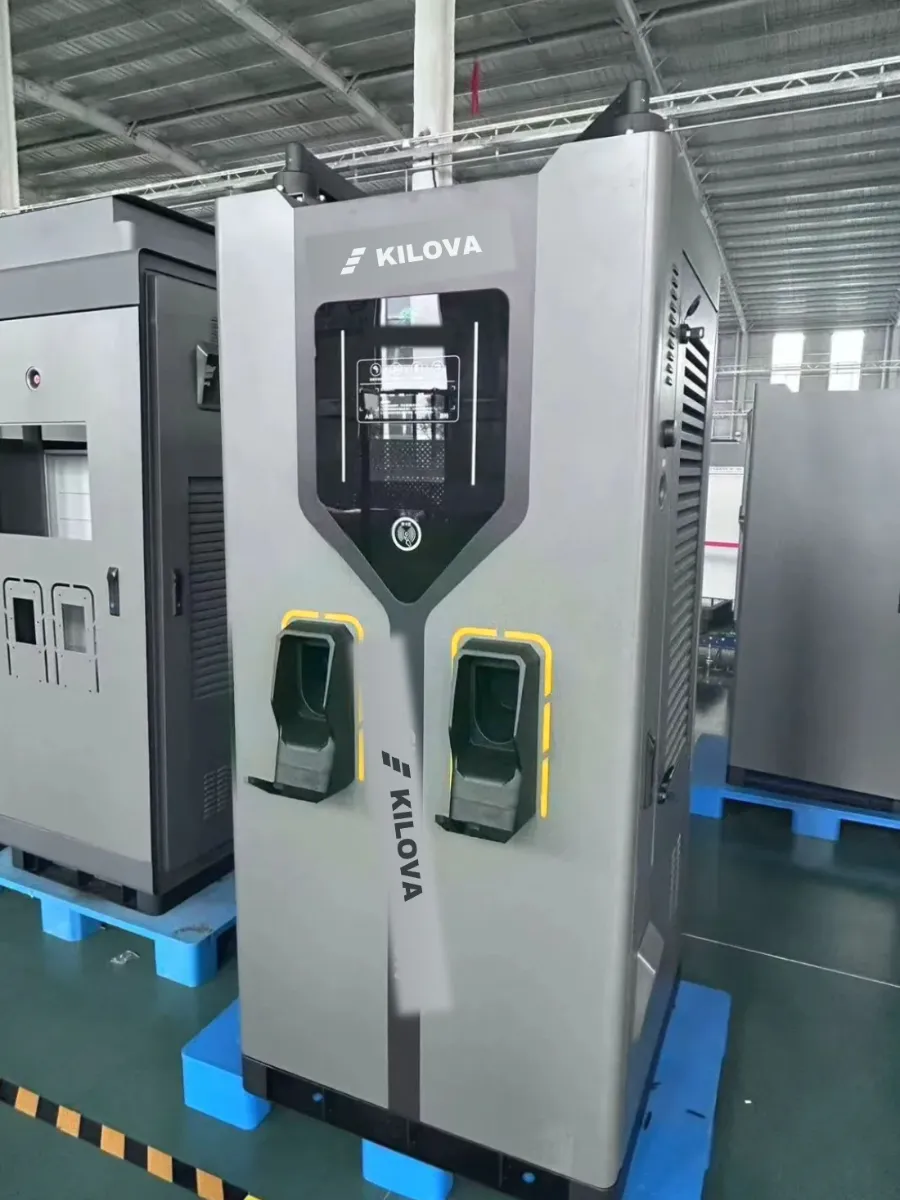
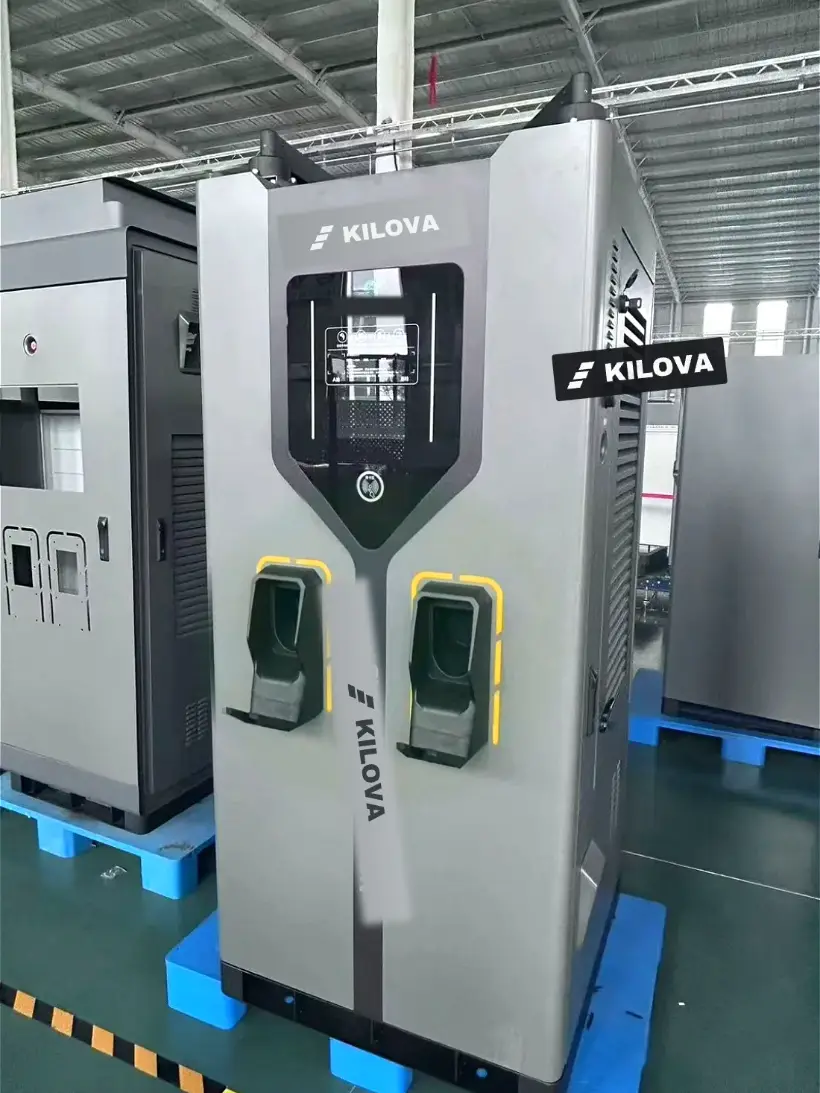
feat(kilova): uma foto por modelo e o adesivo da marca na frente do gabinete
Cada card da linha DC ganhou o retrato do seu equipamento, com o adesivo
KILOVA colado na frente. A unidade branca perdeu a marca do fornecedor:
painel grafite no topo, selo âmbar, instruções do nosso app e o logotipo
grande na porta. Foto de celular passou por nitidez e contraste.

diff --git a/dashboard/public/kilova/index.html b/dashboard/public/kilova/index.html
@@ -73,7 +73,7 @@ header.topo{position:sticky;top:0;z-index:40;background:rgb(255 255 255/.94);bac
 .numeros b{display:block;font-family:var(--serif);font-size:22px;color:var(--tinta)}
 .numeros span{font-size:11.5px;color:var(--suave)}
 .hero figure{margin:0;border-radius:12px;overflow:hidden;background:#EDEFF2}
-.hero figure img{width:100%;height:100%;object-fit:cover;aspect-ratio:1500/860}
+.hero figure img{width:100%;height:100%;object-fit:cover;aspect-ratio:3/2}
 .acoes{display:flex;gap:10px;margin-top:22px;flex-wrap:wrap}
 .acoes a{font-size:15px}
 
@@ -87,8 +87,10 @@ section{padding:44px 0 0}
 .vitrine{display:grid;gap:14px;grid-template-columns:repeat(auto-fill,minmax(228px,1fr))}
 .modelo{display:flex;flex-direction:column;overflow:hidden;transition:box-shadow .18s ease,transform .18s ease}
 .modelo:hover{box-shadow:0 8px 18px rgb(20 23 26/.09),0 2px 5px rgb(20 23 26/.06);transform:translateY(-2px)}
-.modelo .desenho{background:linear-gradient(180deg,#F7F8FA,#FFFFFF);padding:20px 16px 8px;display:flex;
-  align-items:flex-end;justify-content:center;min-height:186px}
+.modelo .desenho{background:#EDEFF2;overflow:hidden}
+.modelo .desenho img{width:100%;height:100%;object-fit:cover;aspect-ratio:4/5;display:block;
+  transition:transform .3s ease}
+.modelo:hover .desenho img{transform:scale(1.04)}
 .modelo .corpo{padding:14px 16px 18px;display:flex;flex-direction:column;gap:9px;flex:1}
 .modelo .nome{font-family:var(--serif);font-size:17px;color:var(--tinta)}
 .modelo .kw{font-family:var(--serif);font-size:30px;color:var(--tinta);line-height:1}
@@ -206,7 +208,7 @@ footer a{text-decoration:underline;text-underline-offset:3px}
     </div>
 
     <figure>
-      <img src="/kilova/img/hero.webp" width="1500" height="860" alt="Linha de carregadores KILOVA de corrente contínua na fábrica, prontos para embarque" fetchpriority="high">
+      <img src="/kilova/img/hero.webp" width="1400" height="933" alt="Linha de carregadores KILOVA de corrente contínua na fábrica, prontos para embarque" fetchpriority="high">
     </figure>
   </div>
 </div>
@@ -225,16 +227,7 @@ footer a{text-decoration:underline;text-underline-offset:3px}
   <div class="vitrine">
 
     <article class="cartao modelo">
-      <div class="desenho">
-        <svg viewBox="0 0 120 150" width="98" role="img" aria-label="Carregador KILOVA D60">
-          <rect x="22" y="10" width="76" height="132" rx="7" fill="#1B2026"></rect>
-          <rect x="30" y="22" width="44" height="34" rx="4" fill="#0A0C0E"></rect>
-          <rect x="84" y="22" width="6" height="86" rx="3" fill="#FFB800"></rect>
-          <rect x="30" y="66" width="26" height="30" rx="5" fill="#0A0C0E"></rect>
-          <g transform="translate(30,112) scale(0.19)"><use href="#s" fill="#FFB800"></use></g>
-          <rect x="14" y="142" width="92" height="6" rx="3" fill="#D5D9E0"></rect>
-        </svg>
-      </div>
+      <div class="desenho"><img src="/kilova/img/d60.webp" width="620" height="775" alt="Carregador KILOVA D60 de 60 kW" loading="lazy"></div>
       <div class="corpo">
         <span class="selo">Entrada de rede</span>
         <p class="nome">KILOVA D60</p>
@@ -250,17 +243,7 @@ footer a{text-decoration:underline;text-underline-offset:3px}
     </article>
 
     <article class="cartao modelo">
-      <div class="desenho">
-        <svg viewBox="0 0 120 150" width="102" role="img" aria-label="Carregador KILOVA D80">
-          <rect x="20" y="8" width="80" height="134" rx="7" fill="#1B2026"></rect>
-          <rect x="28" y="20" width="48" height="36" rx="4" fill="#0A0C0E"></rect>
-          <rect x="86" y="20" width="6" height="90" rx="3" fill="#FFB800"></rect>
-          <rect x="28" y="66" width="26" height="32" rx="5" fill="#0A0C0E"></rect>
-          <rect x="60" y="66" width="26" height="32" rx="5" fill="#0A0C0E"></rect>
-          <g transform="translate(28,114) scale(0.2)"><use href="#s" fill="#FFB800"></use></g>
-          <rect x="12" y="142" width="96" height="6" rx="3" fill="#D5D9E0"></rect>
-        </svg>
-      </div>
+      <div class="desenho"><img src="/kilova/img/d80.webp" width="620" height="775" alt="Carregador KILOVA D80 de 80 kW com dois conectores CCS2" loading="lazy"></div>
       <div class="corpo">
         <span class="selo destaque">Mais indicado</span>
         <p class="nome">KILOVA D80</p>
@@ -276,17 +259,7 @@ footer a{text-decoration:underline;text-underline-offset:3px}
     </article>
 
     <article class="cartao modelo">
-      <div class="desenho">
-        <svg viewBox="0 0 120 150" width="106" role="img" aria-label="Carregador KILOVA D120">
-          <rect x="18" y="6" width="84" height="136" rx="7" fill="#1B2026"></rect>
-          <rect x="26" y="18" width="52" height="38" rx="4" fill="#0A0C0E"></rect>
-          <rect x="88" y="18" width="6" height="94" rx="3" fill="#FFB800"></rect>
-          <rect x="26" y="66" width="28" height="34" rx="5" fill="#0A0C0E"></rect>
-          <rect x="60" y="66" width="28" height="34" rx="5" fill="#0A0C0E"></rect>
-          <g transform="translate(26,116) scale(0.21)"><use href="#s" fill="#FFB800"></use></g>
-          <rect x="10" y="142" width="100" height="6" rx="3" fill="#D5D9E0"></rect>
-        </svg>
-      </div>
+      <div class="desenho"><img src="/kilova/img/d120.webp" width="620" height="775" alt="Carregador KILOVA D120 de 120 kW" loading="lazy"></div>
       <div class="corpo">
         <span class="selo">Corredor movimentado</span>
         <p class="nome">KILOVA D120</p>
@@ -302,17 +275,7 @@ footer a{text-decoration:underline;text-underline-offset:3px}
     </article>
 
     <article class="cartao modelo">
-      <div class="desenho">
-        <svg viewBox="0 0 120 150" width="110" role="img" aria-label="Carregador KILOVA D160">
-          <rect x="16" y="4" width="88" height="138" rx="7" fill="#1B2026"></rect>
-          <rect x="24" y="16" width="56" height="40" rx="4" fill="#0A0C0E"></rect>
-          <rect x="90" y="16" width="6" height="98" rx="3" fill="#FFB800"></rect>
-          <rect x="24" y="66" width="30" height="36" rx="5" fill="#0A0C0E"></rect>
-          <rect x="60" y="66" width="30" height="36" rx="5" fill="#0A0C0E"></rect>
-          <g transform="translate(24,118) scale(0.22)"><use href="#s" fill="#FFB800"></use></g>
-          <rect x="8" y="142" width="104" height="6" rx="3" fill="#D5D9E0"></rect>
-        </svg>
-      </div>
+      <div class="desenho"><img src="/kilova/img/d160.webp" width="620" height="775" alt="Carregadores KILOVA D160 de 160 kW prontos para embarque" loading="lazy"></div>
       <div class="corpo">
         <span class="selo">Rodovia</span>
         <p class="nome">KILOVA D160</p>
@@ -328,17 +291,7 @@ footer a{text-decoration:underline;text-underline-offset:3px}
     </article>
 
     <article class="cartao modelo">
-      <div class="desenho">
-        <svg viewBox="0 0 120 150" width="114" role="img" aria-label="Carregador KILOVA D240">
-          <rect x="12" y="2" width="96" height="140" rx="8" fill="#1B2026"></rect>
-          <rect x="20" y="14" width="62" height="42" rx="4" fill="#0A0C0E"></rect>
-          <rect x="92" y="14" width="7" height="102" rx="3" fill="#FFB800"></rect>
-          <rect x="20" y="66" width="32" height="38" rx="5" fill="#0A0C0E"></rect>
-          <rect x="58" y="66" width="32" height="38" rx="5" fill="#0A0C0E"></rect>
-          <g transform="translate(20,120) scale(0.23)"><use href="#s" fill="#FFB800"></use></g>
-          <rect x="6" y="142" width="108" height="6" rx="3" fill="#D5D9E0"></rect>
-        </svg>
-      </div>
+      <div class="desenho"><img src="/kilova/img/d240.webp" width="620" height="775" alt="Carregador KILOVA D240 de 240 kW visto de frente" loading="lazy"></div>
       <div class="corpo">
         <span class="selo">Hub</span>
         <p class="nome">KILOVA D240</p>
@@ -355,8 +308,9 @@ footer a{text-decoration:underline;text-underline-offset:3px}
 
   </div>
   <p style="margin-top:12px;font-size:12.5px;color:var(--fraco)">
-    Preço do equipamento. Projeto elétrico, parecer de acesso na concessionária, obra civil e instalação
-    entram no orçamento do ponto — a configuração de plugues é confirmada na proposta.
+    Fotos da linha KILOVA no nosso estoque. O gabinete muda conforme a potência e a configuração de
+    plugues é confirmada na proposta. Preço do equipamento: projeto elétrico, parecer de acesso na
+    concessionária, obra civil e instalação entram no orçamento do ponto.
   </p>
 </section>
 
